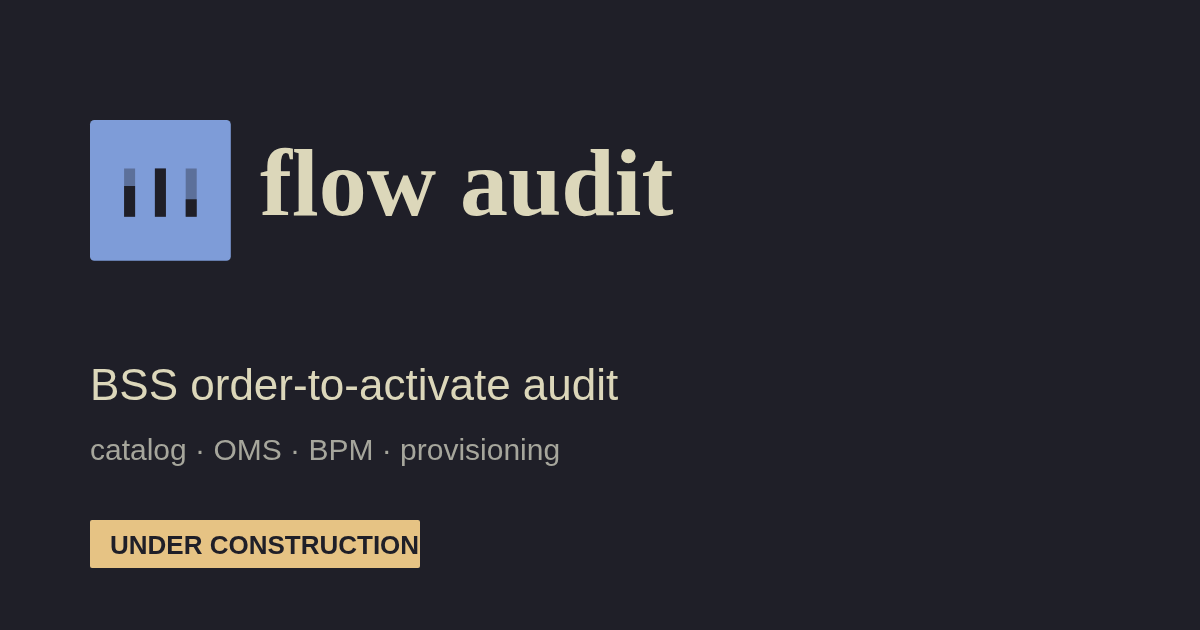
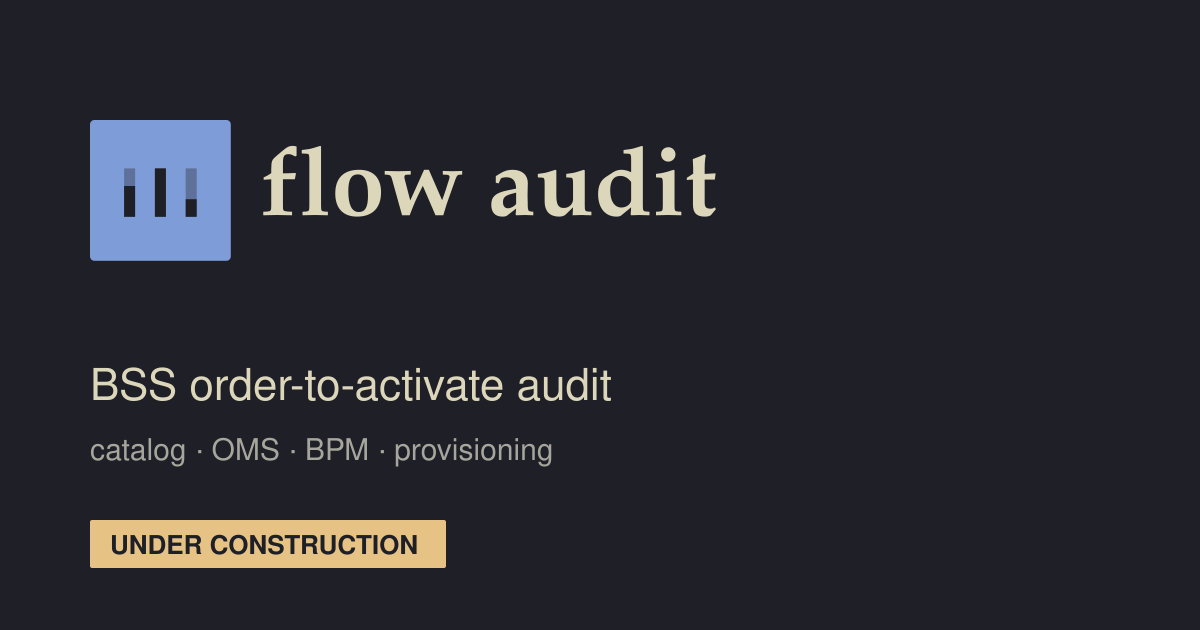
fix: complete the social meta tags on every page
Each page lacked a canonical link, and the OpenGraph and Twitter card
tags were incomplete, so link previews and language alternates resolved
poorly outside the site.

Changes:
- add canonical, og:url, og:site_name, og:image size and alt, and full twitter tags on the root, en, es and pt pages, including the demos
- switch the hreflang alternates to absolute URLs and add x-default on the localized pages
- replace the root meta description with the project description and add the theme-color meta for dark and light
- widen the under-construction badge on og.svg and regenerate og.png

diff --git a/site/index.html b/site/index.html
@@ -4,15 +4,32 @@
 <meta charset="utf-8">
 <meta name="viewport" content="width=device-width, initial-scale=1">
 <title>Flow Audit</title>
-<meta name="description" content="Flow Audit · BSS flow audit · auditoria de fluxo BSS">
+<meta name="description" content="Flow Audit is a project under construction: a planned tool to rebuild the path of an order through the catalog, OMS, BPM and provisioning. Today the design and an example report exist.">
 <meta name="color-scheme" content="dark light">
+<meta property="og:type" content="website">
+<meta property="og:site_name" content="Flow Audit">
+<meta property="og:url" content="https://rdorta27.github.io/flow-audit-site/">
+<meta property="og:title" content="Flow Audit">
+<meta property="og:description" content="Flow Audit is a project under construction: a planned tool to rebuild the path of an order through the catalog, OMS, BPM and provisioning. Today the design and an example report exist.">
+<meta property="og:image" content="https://rdorta27.github.io/flow-audit-site/og.png">
+<meta property="og:image:width" content="1200">
+<meta property="og:image:height" content="630">
+<meta property="og:image:alt" content="Flow Audit: BSS order-to-activate audit across catalog, OMS, BPM and provisioning. Under construction.">
+<meta property="og:locale" content="en_US">
+<meta name="twitter:card" content="summary_large_image">
+<meta name="twitter:title" content="Flow Audit">
+<meta name="twitter:description" content="Flow Audit is a project under construction: a planned tool to rebuild the path of an order through the catalog, OMS, BPM and provisioning. Today the design and an example report exist.">
+<meta name="twitter:image" content="https://rdorta27.github.io/flow-audit-site/og.png">
+<meta name="theme-color" content="#1f1f28" media="(prefers-color-scheme: dark)">
+<meta name="theme-color" content="#f2ecbc" media="(prefers-color-scheme: light)">
+<link rel="canonical" href="https://rdorta27.github.io/flow-audit-site/">
 <link rel="icon" href="favicon.svg" type="image/svg+xml">
 <link rel="stylesheet" href="style.css">
 <script src="lang.js"></script>
-<link rel="alternate" hreflang="es" href="es/index.html">
-<link rel="alternate" hreflang="en" href="en/index.html">
-<link rel="alternate" hreflang="pt-BR" href="pt/index.html">
-<link rel="alternate" hreflang="x-default" href="en/index.html">
+<link rel="alternate" hreflang="es" href="https://rdorta27.github.io/flow-audit-site/es/">
+<link rel="alternate" hreflang="en" href="https://rdorta27.github.io/flow-audit-site/en/">
+<link rel="alternate" hreflang="pt-BR" href="https://rdorta27.github.io/flow-audit-site/pt/">
+<link rel="alternate" hreflang="x-default" href="https://rdorta27.github.io/flow-audit-site/en/">
 </head>
 <body>
 <div class="wrap">

diff --git a/site/es/index.html b/site/es/index.html
@@ -7,18 +7,30 @@
 <meta name="description" content="Flow Audit es un proyecto en construcción: una herramienta prevista para reconstruir el recorrido de un pedido por catálogo, OMS, BPM y aprovisionamiento. Hoy existe el diseño y un informe de ejemplo.">
 <meta name="color-scheme" content="dark light">
 <meta property="og:type" content="website">
+<meta property="og:site_name" content="Flow Audit">
+<meta property="og:url" content="https://rdorta27.github.io/flow-audit-site/es/">
 <meta property="og:title" content="Flow Audit · auditoría de flujo BSS">
 <meta property="og:description" content="Flow Audit es un proyecto en construcción: una herramienta prevista para reconstruir el recorrido de un pedido por catálogo, OMS, BPM y aprovisionamiento. Hoy existe el diseño y un informe de ejemplo.">
 <meta property="og:image" content="https://rdorta27.github.io/flow-audit-site/og.png">
+<meta property="og:image:width" content="1200">
+<meta property="og:image:height" content="630">
+<meta property="og:image:alt" content="Flow Audit: BSS order-to-activate audit across catalog, OMS, BPM and provisioning. Under construction.">
 <meta property="og:locale" content="es_ES">
 <meta name="twitter:card" content="summary_large_image">
+<meta name="twitter:title" content="Flow Audit · auditoría de flujo BSS">
+<meta name="twitter:description" content="Flow Audit es un proyecto en construcción: una herramienta prevista para reconstruir el recorrido de un pedido por catálogo, OMS, BPM y aprovisionamiento. Hoy existe el diseño y un informe de ejemplo.">
+<meta name="twitter:image" content="https://rdorta27.github.io/flow-audit-site/og.png">
+<meta name="theme-color" content="#1f1f28" media="(prefers-color-scheme: dark)">
+<meta name="theme-color" content="#f2ecbc" media="(prefers-color-scheme: light)">
+<link rel="canonical" href="https://rdorta27.github.io/flow-audit-site/es/">
 <link rel="icon" href="../favicon.svg" type="image/svg+xml">
 <link rel="stylesheet" href="../style.css">
 <link rel="stylesheet" href="../report.css">
-<link rel="alternate" hreflang="es" href="../es/index.html">
-<link rel="alternate" hreflang="en" href="../en/index.html">
-<link rel="alternate" hreflang="pt-BR" href="../pt/index.html">
 <script src="../lang.js"></script>
+<link rel="alternate" hreflang="es" href="https://rdorta27.github.io/flow-audit-site/es/">
+<link rel="alternate" hreflang="en" href="https://rdorta27.github.io/flow-audit-site/en/">
+<link rel="alternate" hreflang="pt-BR" href="https://rdorta27.github.io/flow-audit-site/pt/">
+<link rel="alternate" hreflang="x-default" href="https://rdorta27.github.io/flow-audit-site/en/">
 </head>
 <body>
 <a class="skip" href="#main">Saltar al contenido</a>

diff --git a/site/pt/index.html b/site/pt/index.html
@@ -7,18 +7,30 @@
 <meta name="description" content="O Flow Audit é um projeto em construção: uma ferramenta planejada para reconstruir o caminho de um pedido por catálogo, OMS, BPM e provisionamento. Hoje existem o desenho e um relatório de exemplo.">
 <meta name="color-scheme" content="dark light">
 <meta property="og:type" content="website">
+<meta property="og:site_name" content="Flow Audit">
+<meta property="og:url" content="https://rdorta27.github.io/flow-audit-site/pt/">
 <meta property="og:title" content="Flow Audit · auditoria de fluxo BSS">
 <meta property="og:description" content="O Flow Audit é um projeto em construção: uma ferramenta planejada para reconstruir o caminho de um pedido por catálogo, OMS, BPM e provisionamento. Hoje existem o desenho e um relatório de exemplo.">
 <meta property="og:image" content="https://rdorta27.github.io/flow-audit-site/og.png">
+<meta property="og:image:width" content="1200">
+<meta property="og:image:height" content="630">
+<meta property="og:image:alt" content="Flow Audit: BSS order-to-activate audit across catalog, OMS, BPM and provisioning. Under construction.">
 <meta property="og:locale" content="pt_BR">
 <meta name="twitter:card" content="summary_large_image">
+<meta name="twitter:title" content="Flow Audit · auditoria de fluxo BSS">
+<meta name="twitter:description" content="O Flow Audit é um projeto em construção: uma ferramenta planejada para reconstruir o caminho de um pedido por catálogo, OMS, BPM e provisionamento. Hoje existem o desenho e um relatório de exemplo.">
+<meta name="twitter:image" content="https://rdorta27.github.io/flow-audit-site/og.png">
+<meta name="theme-color" content="#1f1f28" media="(prefers-color-scheme: dark)">
+<meta name="theme-color" content="#f2ecbc" media="(prefers-color-scheme: light)">
+<link rel="canonical" href="https://rdorta27.github.io/flow-audit-site/pt/">
 <link rel="icon" href="../favicon.svg" type="image/svg+xml">
 <link rel="stylesheet" href="../style.css">
 <link rel="stylesheet" href="../report.css">
-<link rel="alternate" hreflang="es" href="../es/index.html">
-<link rel="alternate" hreflang="en" href="../en/index.html">
-<link rel="alternate" hreflang="pt-BR" href="../pt/index.html">
 <script src="../lang.js"></script>
+<link rel="alternate" hreflang="es" href="https://rdorta27.github.io/flow-audit-site/es/">
+<link rel="alternate" hreflang="en" href="https://rdorta27.github.io/flow-audit-site/en/">
+<link rel="alternate" hreflang="pt-BR" href="https://rdorta27.github.io/flow-audit-site/pt/">
+<link rel="alternate" hreflang="x-default" href="https://rdorta27.github.io/flow-audit-site/en/">
 </head>
 <body>
 <a class="skip" href="#main">Ir para o conteúdo</a>

diff --git a/site/en/index.html b/site/en/index.html
@@ -7,18 +7,30 @@
 <meta name="description" content="Flow Audit is a project under construction: a planned tool to rebuild the path of an order through the catalog, OMS, BPM and provisioning. Today the design and an example report exist.">
 <meta name="color-scheme" content="dark light">
 <meta property="og:type" content="website">
+<meta property="og:site_name" content="Flow Audit">
+<meta property="og:url" content="https://rdorta27.github.io/flow-audit-site/en/">
 <meta property="og:title" content="Flow Audit · BSS flow audit">
 <meta property="og:description" content="Flow Audit is a project under construction: a planned tool to rebuild the path of an order through the catalog, OMS, BPM and provisioning. Today the design and an example report exist.">
 <meta property="og:image" content="https://rdorta27.github.io/flow-audit-site/og.png">
+<meta property="og:image:width" content="1200">
+<meta property="og:image:height" content="630">
+<meta property="og:image:alt" content="Flow Audit: BSS order-to-activate audit across catalog, OMS, BPM and provisioning. Under construction.">
 <meta property="og:locale" content="en_US">
 <meta name="twitter:card" content="summary_large_image">
+<meta name="twitter:title" content="Flow Audit · BSS flow audit">
+<meta name="twitter:description" content="Flow Audit is a project under construction: a planned tool to rebuild the path of an order through the catalog, OMS, BPM and provisioning. Today the design and an example report exist.">
+<meta name="twitter:image" content="https://rdorta27.github.io/flow-audit-site/og.png">
+<meta name="theme-color" content="#1f1f28" media="(prefers-color-scheme: dark)">
+<meta name="theme-color" content="#f2ecbc" media="(prefers-color-scheme: light)">
+<link rel="canonical" href="https://rdorta27.github.io/flow-audit-site/en/">
 <link rel="icon" href="../favicon.svg" type="image/svg+xml">
 <link rel="stylesheet" href="../style.css">
 <link rel="stylesheet" href="../report.css">
-<link rel="alternate" hreflang="es" href="../es/index.html">
-<link rel="alternate" hreflang="en" href="../en/index.html">
-<link rel="alternate" hreflang="pt-BR" href="../pt/index.html">
 <script src="../lang.js"></script>
+<link rel="alternate" hreflang="es" href="https://rdorta27.github.io/flow-audit-site/es/">
+<link rel="alternate" hreflang="en" href="https://rdorta27.github.io/flow-audit-site/en/">
+<link rel="alternate" hreflang="pt-BR" href="https://rdorta27.github.io/flow-audit-site/pt/">
+<link rel="alternate" hreflang="x-default" href="https://rdorta27.github.io/flow-audit-site/en/">
 </head>
 <body>
 <a class="skip" href="#main">Skip to content</a>

diff --git a/site/pt/demo/index.html b/site/pt/demo/index.html
@@ -7,18 +7,30 @@
 <meta name="description" content="Relatório de exemplo com dados sintéticos de uma operadora fictícia. Nenhum motor o gerou.">
 <meta name="color-scheme" content="dark light">
 <meta property="og:type" content="website">
+<meta property="og:site_name" content="Flow Audit">
+<meta property="og:url" content="https://rdorta27.github.io/flow-audit-site/pt/demo/">
 <meta property="og:title" content="Relatório demo · Flow Audit">
 <meta property="og:description" content="Relatório de exemplo com dados sintéticos de uma operadora fictícia. Nenhum motor o gerou.">
 <meta property="og:image" content="https://rdorta27.github.io/flow-audit-site/og.png">
+<meta property="og:image:width" content="1200">
+<meta property="og:image:height" content="630">
+<meta property="og:image:alt" content="Flow Audit: BSS order-to-activate audit across catalog, OMS, BPM and provisioning. Under construction.">
 <meta property="og:locale" content="pt_BR">
 <meta name="twitter:card" content="summary_large_image">
+<meta name="twitter:title" content="Relatório demo · Flow Audit">
+<meta name="twitter:description" content="Relatório de exemplo com dados sintéticos de uma operadora fictícia. Nenhum motor o gerou.">
+<meta name="twitter:image" content="https://rdorta27.github.io/flow-audit-site/og.png">
+<meta name="theme-color" content="#1f1f28" media="(prefers-color-scheme: dark)">
+<meta name="theme-color" content="#f2ecbc" media="(prefers-color-scheme: light)">
+<link rel="canonical" href="https://rdorta27.github.io/flow-audit-site/pt/demo/">
 <link rel="icon" href="../../favicon.svg" type="image/svg+xml">
 <link rel="stylesheet" href="../../style.css">
 <link rel="stylesheet" href="../../report.css">
-<link rel="alternate" hreflang="es" href="../../es/demo/index.html">
-<link rel="alternate" hreflang="en" href="../../en/demo/index.html">
-<link rel="alternate" hreflang="pt-BR" href="../../pt/demo/index.html">
 <script src="../../lang.js"></script>
+<link rel="alternate" hreflang="es" href="https://rdorta27.github.io/flow-audit-site/es/demo/">
+<link rel="alternate" hreflang="en" href="https://rdorta27.github.io/flow-audit-site/en/demo/">
+<link rel="alternate" hreflang="pt-BR" href="https://rdorta27.github.io/flow-audit-site/pt/demo/">
+<link rel="alternate" hreflang="x-default" href="https://rdorta27.github.io/flow-audit-site/en/demo/">
 </head>
 <body>
 <a class="skip" href="#main">Ir para o conteúdo</a>

diff --git a/site/es/demo/index.html b/site/es/demo/index.html
@@ -7,18 +7,30 @@
 <meta name="description" content="Informe de ejemplo con datos sintéticos de un operador ficticio. Ningún motor lo generó.">
 <meta name="color-scheme" content="dark light">
 <meta property="og:type" content="website">
+<meta property="og:site_name" content="Flow Audit">
+<meta property="og:url" content="https://rdorta27.github.io/flow-audit-site/es/demo/">
 <meta property="og:title" content="Informe demo · Flow Audit">
 <meta property="og:description" content="Informe de ejemplo con datos sintéticos de un operador ficticio. Ningún motor lo generó.">
 <meta property="og:image" content="https://rdorta27.github.io/flow-audit-site/og.png">
+<meta property="og:image:width" content="1200">
+<meta property="og:image:height" content="630">
+<meta property="og:image:alt" content="Flow Audit: BSS order-to-activate audit across catalog, OMS, BPM and provisioning. Under construction.">
 <meta property="og:locale" content="es_ES">
 <meta name="twitter:card" content="summary_large_image">
+<meta name="twitter:title" content="Informe demo · Flow Audit">
+<meta name="twitter:description" content="Informe de ejemplo con datos sintéticos de un operador ficticio. Ningún motor lo generó.">
+<meta name="twitter:image" content="https://rdorta27.github.io/flow-audit-site/og.png">
+<meta name="theme-color" content="#1f1f28" media="(prefers-color-scheme: dark)">
+<meta name="theme-color" content="#f2ecbc" media="(prefers-color-scheme: light)">
+<link rel="canonical" href="https://rdorta27.github.io/flow-audit-site/es/demo/">
 <link rel="icon" href="../../favicon.svg" type="image/svg+xml">
 <link rel="stylesheet" href="../../style.css">
 <link rel="stylesheet" href="../../report.css">
-<link rel="alternate" hreflang="es" href="../../es/demo/index.html">
-<link rel="alternate" hreflang="en" href="../../en/demo/index.html">
-<link rel="alternate" hreflang="pt-BR" href="../../pt/demo/index.html">
 <script src="../../lang.js"></script>
+<link rel="alternate" hreflang="es" href="https://rdorta27.github.io/flow-audit-site/es/demo/">
+<link rel="alternate" hreflang="en" href="https://rdorta27.github.io/flow-audit-site/en/demo/">
+<link rel="alternate" hreflang="pt-BR" href="https://rdorta27.github.io/flow-audit-site/pt/demo/">
+<link rel="alternate" hreflang="x-default" href="https://rdorta27.github.io/flow-audit-site/en/demo/">
 </head>
 <body>
 <a class="skip" href="#main">Saltar al contenido</a>

diff --git a/site/en/demo/index.html b/site/en/demo/index.html
@@ -7,18 +7,30 @@
 <meta name="description" content="Example report with synthetic data from a fictional operator. No engine generated it.">
 <meta name="color-scheme" content="dark light">
 <meta property="og:type" content="website">
+<meta property="og:site_name" content="Flow Audit">
+<meta property="og:url" content="https://rdorta27.github.io/flow-audit-site/en/demo/">
 <meta property="og:title" content="Demo report · Flow Audit">
 <meta property="og:description" content="Example report with synthetic data from a fictional operator. No engine generated it.">
 <meta property="og:image" content="https://rdorta27.github.io/flow-audit-site/og.png">
+<meta property="og:image:width" content="1200">
+<meta property="og:image:height" content="630">
+<meta property="og:image:alt" content="Flow Audit: BSS order-to-activate audit across catalog, OMS, BPM and provisioning. Under construction.">
 <meta property="og:locale" content="en_US">
 <meta name="twitter:card" content="summary_large_image">
+<meta name="twitter:title" content="Demo report · Flow Audit">
+<meta name="twitter:description" content="Example report with synthetic data from a fictional operator. No engine generated it.">
+<meta name="twitter:image" content="https://rdorta27.github.io/flow-audit-site/og.png">
+<meta name="theme-color" content="#1f1f28" media="(prefers-color-scheme: dark)">
+<meta name="theme-color" content="#f2ecbc" media="(prefers-color-scheme: light)">
+<link rel="canonical" href="https://rdorta27.github.io/flow-audit-site/en/demo/">
 <link rel="icon" href="../../favicon.svg" type="image/svg+xml">
 <link rel="stylesheet" href="../../style.css">
 <link rel="stylesheet" href="../../report.css">
-<link rel="alternate" hreflang="es" href="../../es/demo/index.html">
-<link rel="alternate" hreflang="en" href="../../en/demo/index.html">
-<link rel="alternate" hreflang="pt-BR" href="../../pt/demo/index.html">
 <script src="../../lang.js"></script>
+<link rel="alternate" hreflang="es" href="https://rdorta27.github.io/flow-audit-site/es/demo/">
+<link rel="alternate" hreflang="en" href="https://rdorta27.github.io/flow-audit-site/en/demo/">
+<link rel="alternate" hreflang="pt-BR" href="https://rdorta27.github.io/flow-audit-site/pt/demo/">
+<link rel="alternate" hreflang="x-default" href="https://rdorta27.github.io/flow-audit-site/en/demo/">
 </head>
 <body>
 <a class="skip" href="#main">Skip to content</a>
